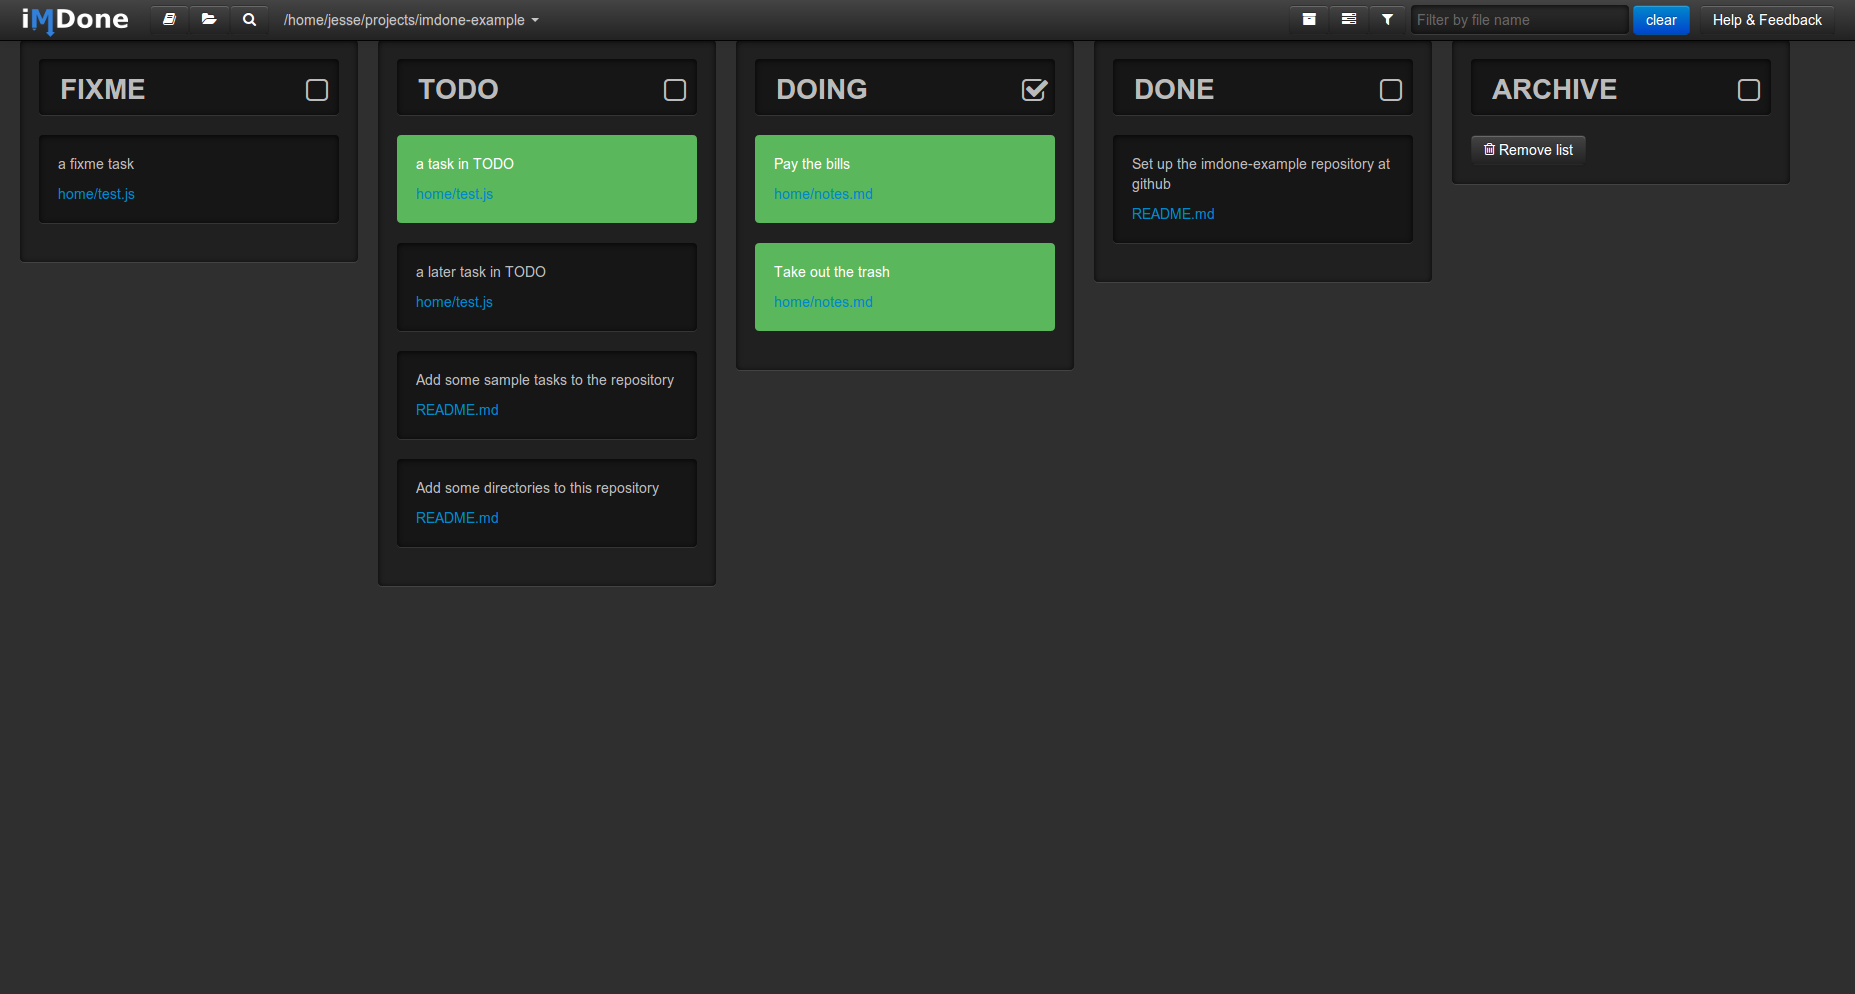
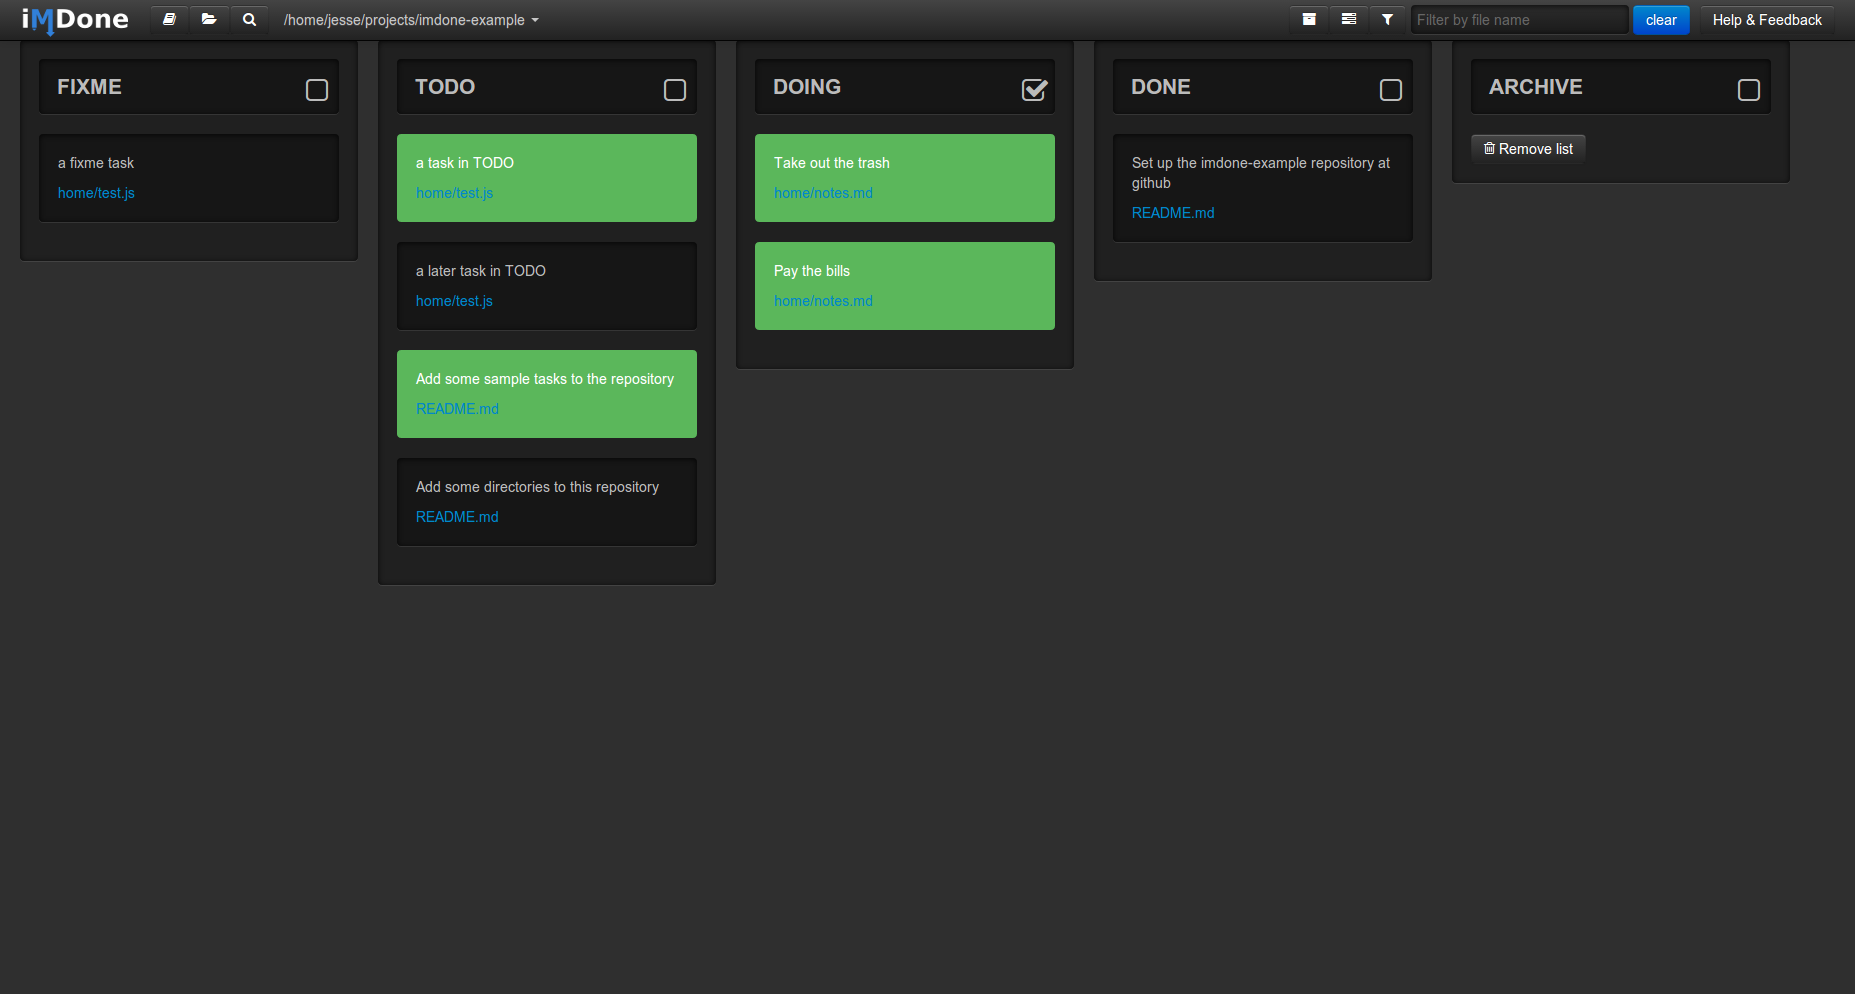
Update ui image

diff --git a/server/tasks.js b/server/tasks.js
@@ -5,7 +5,7 @@ var languages = require("./util/languages");
 var taskregex = /\[(.+?)\]\(#([\w\-]+?):(\d+?\.?\d*?)\)/g;
 var codeStylePattern = "\\s*)([A-Z]{2,}):?(\\d+?\\.?\\d*?)?\\s+(.*)$"
 // DONE:0 Support TODO and FIXME type tasks in code.
-// PLANNING:0 Support @username and @Date in tasks
+// PLANNING:20 Support @username and @Date in tasks
 
 //for ignoring code search for code and replace with empty string or blacnk lines if it's a block before finding tasks
 var codeRegExp = {

diff --git a/docs/notes/notes.md b/docs/notes/notes.md
@@ -30,7 +30,7 @@ Markdown | Less | Pretty
 - [Fix show list on task-link](#ARCHIVE:370) 
 - [User should be able to execute a javscript callback when a files are modified in the editor or by moving a task](#ARCHIVE:310)
 - [User should be able to jump back to the task in the board if the task is clicked in the file view task notification](#ARCHIVE:350)
-- [User should be able to rename a file including it's path](#DOING:30)
+- [User should be able to rename a file including it's path](#PLANNING:0)
 - [User should be able archive tasks](#ARCHIVE:150)
 - [Use json for configuration, not module](#DOING:40)
 - [User should be able to batch move tasks to another list](#ARCHIVE:160)
@@ -66,8 +66,8 @@ Markdown | Less | Pretty
 - [Add link to Asciiflow <http://www.asciiflow.com/#Draw>](#TODO:50)
 - [Make html and xml files printable](#ARCHIVE:480)
 - [Upgrade to [font-awesome 3.1.1 ](http://fortawesome.github.io/Font-Awesome/icons/)](#ARCHIVE:240)
-- [accept more data about a task with `#key:value`](#PLANNING:10)
-- [Use icon-asterisk for menu of more options when editing](#PLANNING:20)
+- [accept more data about a task with `#key:value`](#PLANNING:30)
+- [Use icon-asterisk for menu of more options when editing](#PLANNING:40)
 - [Set up user page and point leannotes.com to it](#ARCHIVE:270)
     - [Setting up a custom domain with Pages · GitHub Help](https://help.github.com/articles/setting-up-a-custom-domain-with-pages)
     - [User, Organization and Project Pages · GitHub Help](https://help.github.com/articles/user-organization-and-project-pages)
@@ -90,9 +90,9 @@ Roadmap
 - [Enable svn and git commit after file changes](#ARCHIVE:230)
 - [Convert front end to use backbone.js](#TODO:80)
 - [respect marked configuration in client javascript](#TODO:150)
-- [User should be able to remove task syntax with hotkey when in task text](#DOING:50)
+- [User should be able to remove task syntax with hotkey when in task text](#PLANNING:10)
 - [User should be able to use TOC in preview mode for md files](#ARCHIVE:420)
-- [User should be able to get quick help with keyboard shortcuts](#PLANNING:40)
+- [User should be able to get quick help with keyboard shortcuts](#PLANNING:50)
 - [User should get a guided tour](#TODO:140)
 - [Enable vfs <https://github.com/c9/vfs-socket> as method of interacting with other storage providers.](#ARCHIVE:260)
 - [Use [Broadway](https://npmjs.org/package/broadway) for IOC.](#TODO:100)

diff --git a/docs/notes/marketing.md b/docs/notes/marketing.md
@@ -1,9 +1,10 @@
-- [share launch page](#DOING:10)
+- [share launch page](#DOING:20)
   - [28 Intriguing Launching Soon Pages](http://www.designyourway.net/blog/inspiration/28-intriguing-launching-soon-pages/)
   - [Elements Of A Viral Launch Page | Smashing Magazine](http://www.smashingmagazine.com/2011/09/01/elements-of-a-viral-launch-page/)
   - [Fuel Your Viral Launch Page With These 5 Social Recommendation Tips - LaunchRock](http://blog.launchrock.co/5-lessons-for-a-friend-fueled-viral-launch-page/)
   - [5 Tips for Pre-Launch Landing Pages](http://sixrevisions.com/content-strategy/pre-launch-landing-page-tips/)
   - [Best practices for coming soon launch landing pages - Kickofflabs](http://kickofflabs.com/education/best-practices-for-coming-soon-launch-landing-pages/)
-- [update logos in twitter, tumblr, readme etc.](#DOING:20)
-- [Create how to video for imdone](#DOING:0)
+- [update logos in twitter, tumblr, readme etc.](#DOING:30)
+- [Create how to video for imdone](#DOING:10)
   - [Embed Video – Ideas & Support](http://support.launchrock.co/forums/126277-general/suggestions/2471544-embed-video)
+- [Do the twitter thing](#DOING:0)
